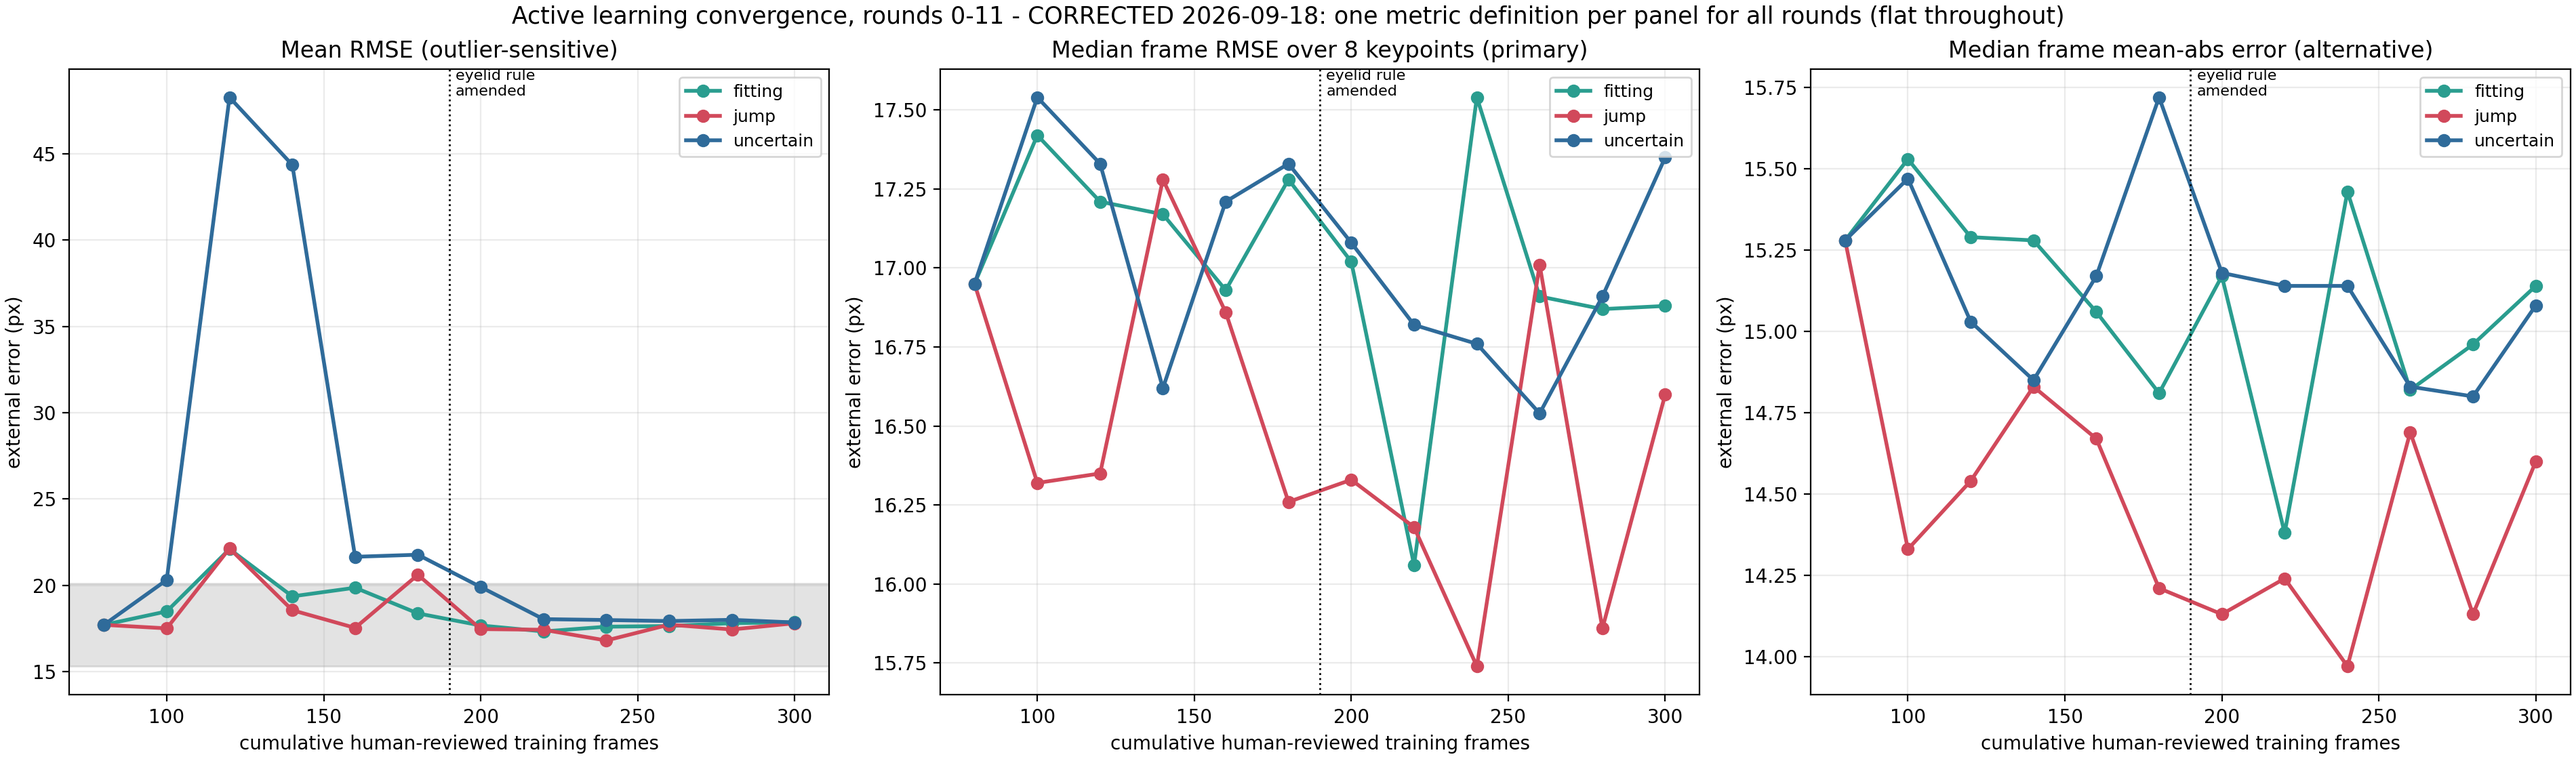
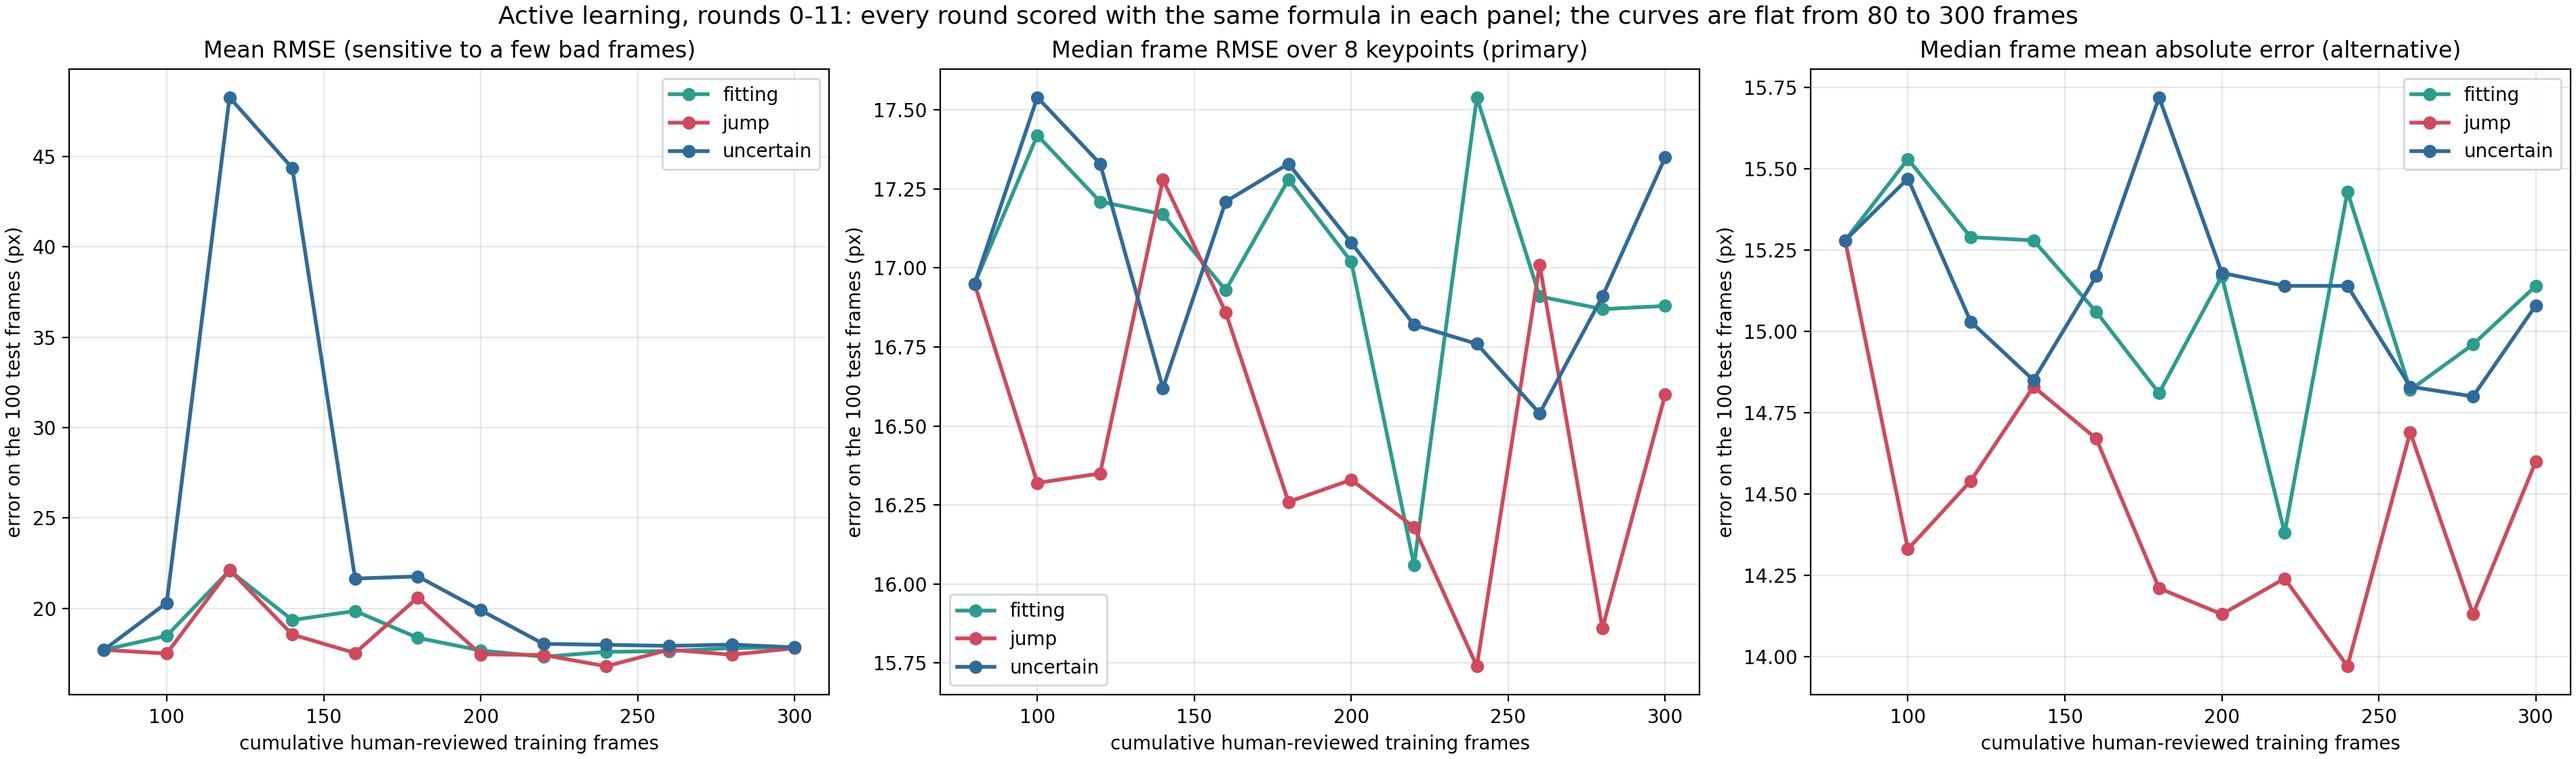
Active-learning convergence figure redrawn from convergence.csv: same formula for all rounds in each panel, the 'eyelid rule amended' marker removed (the labelling rule never changed)
Claude-Session: https://claude.ai/code/session_019oZuevraZexWg9fapK2Kwu

diff --git a/v1_old_pupil_top/active-learning-jump-selection/scripts/plot_convergence.py b/v1_old_pupil_top/active-learning-jump-selection/scripts/plot_convergence.py
@@ -1,0 +1,33 @@
+#!/usr/bin/env python3
+"""Convergence figure of the active-learning experiment (rounds 0-11), one error formula per panel for all rounds.
+
+    python plot_convergence.py
+
+Reads ../results/convergence.csv and writes ../results/01_convergence_curves.png. Panels: mean RMSE over all test
+points (sensitive to a few bad frames), median over the 100 test frames of the per-frame RMSE over the 8 keypoints
+(primary), and median of the per-frame mean absolute error (alternative). The labelling rule was the same in every
+round, so no round is marked."""
+from pathlib import Path
+
+import matplotlib
+
+matplotlib.use("Agg")
+import matplotlib.pyplot as plt
+import pandas as pd
+
+R = Path(__file__).resolve().parents[1] / "results"
+d = pd.read_csv(R / "convergence.csv")
+COL = {"fitting": "#2a9d8f", "jump": "#d1495b", "uncertain": "#2f6b9a"}
+PANELS = [("external_overall_rmse_px", "Mean RMSE (sensitive to a few bad frames)"),
+          ("median_frame_rmse_px", "Median frame RMSE over 8 keypoints (primary)"),
+          ("median_frame_mean_abs_px", "Median frame mean absolute error (alternative)")]
+fig, axes = plt.subplots(1, 3, figsize=(19, 5.6), constrained_layout=True)
+for ax, (col, title) in zip(axes, PANELS):
+    for b in ("fitting", "jump", "uncertain"):
+        g = d[d.branch == b].sort_values("round")
+        ax.plot(g.cumulative_training_frames, g[col], "o-", color=COL[b], lw=2, ms=6, label=b)
+    ax.set_title(title, fontsize=12); ax.set_xlabel("cumulative human-reviewed training frames"); ax.set_ylabel("error on the 100 test frames (px)")
+    ax.grid(alpha=0.3); ax.legend()
+fig.suptitle("Active learning, rounds 0-11: every round scored with the same formula in each panel; the curves are flat from 80 to 300 frames", fontsize=13)
+fig.savefig(R / "01_convergence_curves.png", dpi=200)
+print("saved", R / "01_convergence_curves.png")
